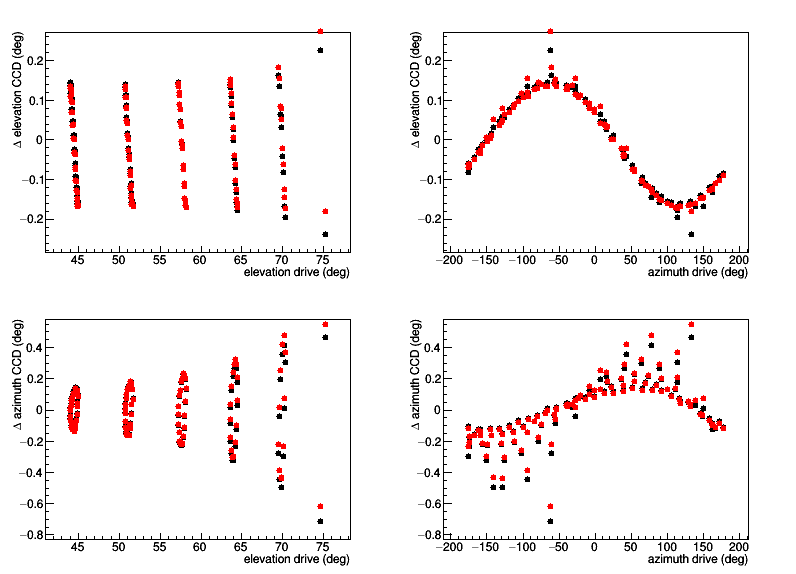
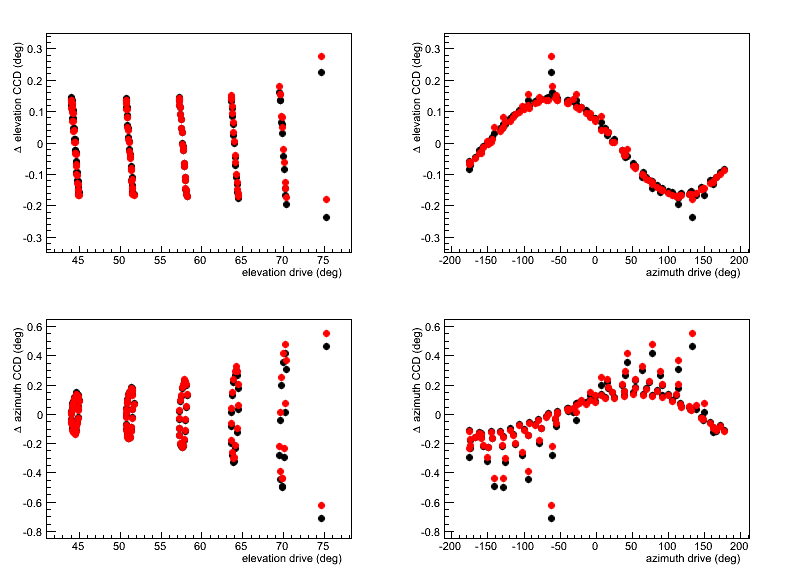
25.02.2019-2

diff --git a/341/fitC2D44.C b/341/fitC2D44.C
@@ -439,7 +439,6 @@ gStyle->SetTitleSize(.045, "XY");
     m->Draw();
   }
   g_delel2->GetYaxis()->SetRangeUser(-0.35,0.35);
-  }
   //g_delel2->GetYaxis()->SetRangeUser(-1,8);
   can2->Update();
   TGraph* g_delaz2=new TGraph(kk,az_vec,del_vec2);
@@ -493,22 +492,22 @@ gStyle->SetTitleSize(.045, "XY");
   can2->Update();
   can2->SaveAs(nam2);
 
-  TCanvas* can3 = new TCanvas("compare2","compare2",0,0,1200,600);
-  TString nam3("C2D44comp2.png");
-  TGraph* g=new TGraph(kk,azd_vec,eld_vec);
-  g->SetMarkerStyle(20);
-  g->SetMarkerSize(0.80);
-  g->GetXaxis()->SetTitle("azimuth drive (deg)");
-  g->GetYaxis()->SetTitle("elevation drive (deg)");
-  g->SetTitle("");
-  g->Draw("AP");
-  for (int i=0; i<kk; i++){
-    TMarker *m = new TMarker(funcAz(el_vec[i],az_vec[i],az0,el0,az1,el1),funcEl(el_vec[i],az_vec[i],az0,el0,az1,el1),20);
-    m->SetMarkerSize(0.80);
-    m->SetMarkerColor(2);
-    m->Draw();
-  }
-  can3->SaveAs(nam3);
-  can->SaveAs(nam);
+  // TCanvas* can3 = new TCanvas("compare2","compare2",0,0,1200,600);
+  // TString nam3("C2D44comp2.png");
+  // TGraph* g=new TGraph(kk,azd_vec,eld_vec);
+  // g->SetMarkerStyle(20);
+  // g->SetMarkerSize(0.80);
+  // g->GetXaxis()->SetTitle("azimuth drive (deg)");
+  // g->GetYaxis()->SetTitle("elevation drive (deg)");
+  // g->SetTitle("");
+  // g->Draw("AP");
+  // for (int i=0; i<kk; i++){
+  //   TMarker *m = new TMarker(funcAz(el_vec[i],az_vec[i],az0,el0,az1,el1),funcEl(el_vec[i],az_vec[i],az0,el0,az1,el1),20);
+  //   m->SetMarkerSize(0.80);
+  //   m->SetMarkerColor(2);
+  //   m->Draw();
+  // }
+  // can3->SaveAs(nam3);
+  // can->SaveAs(nam);
   }
 
